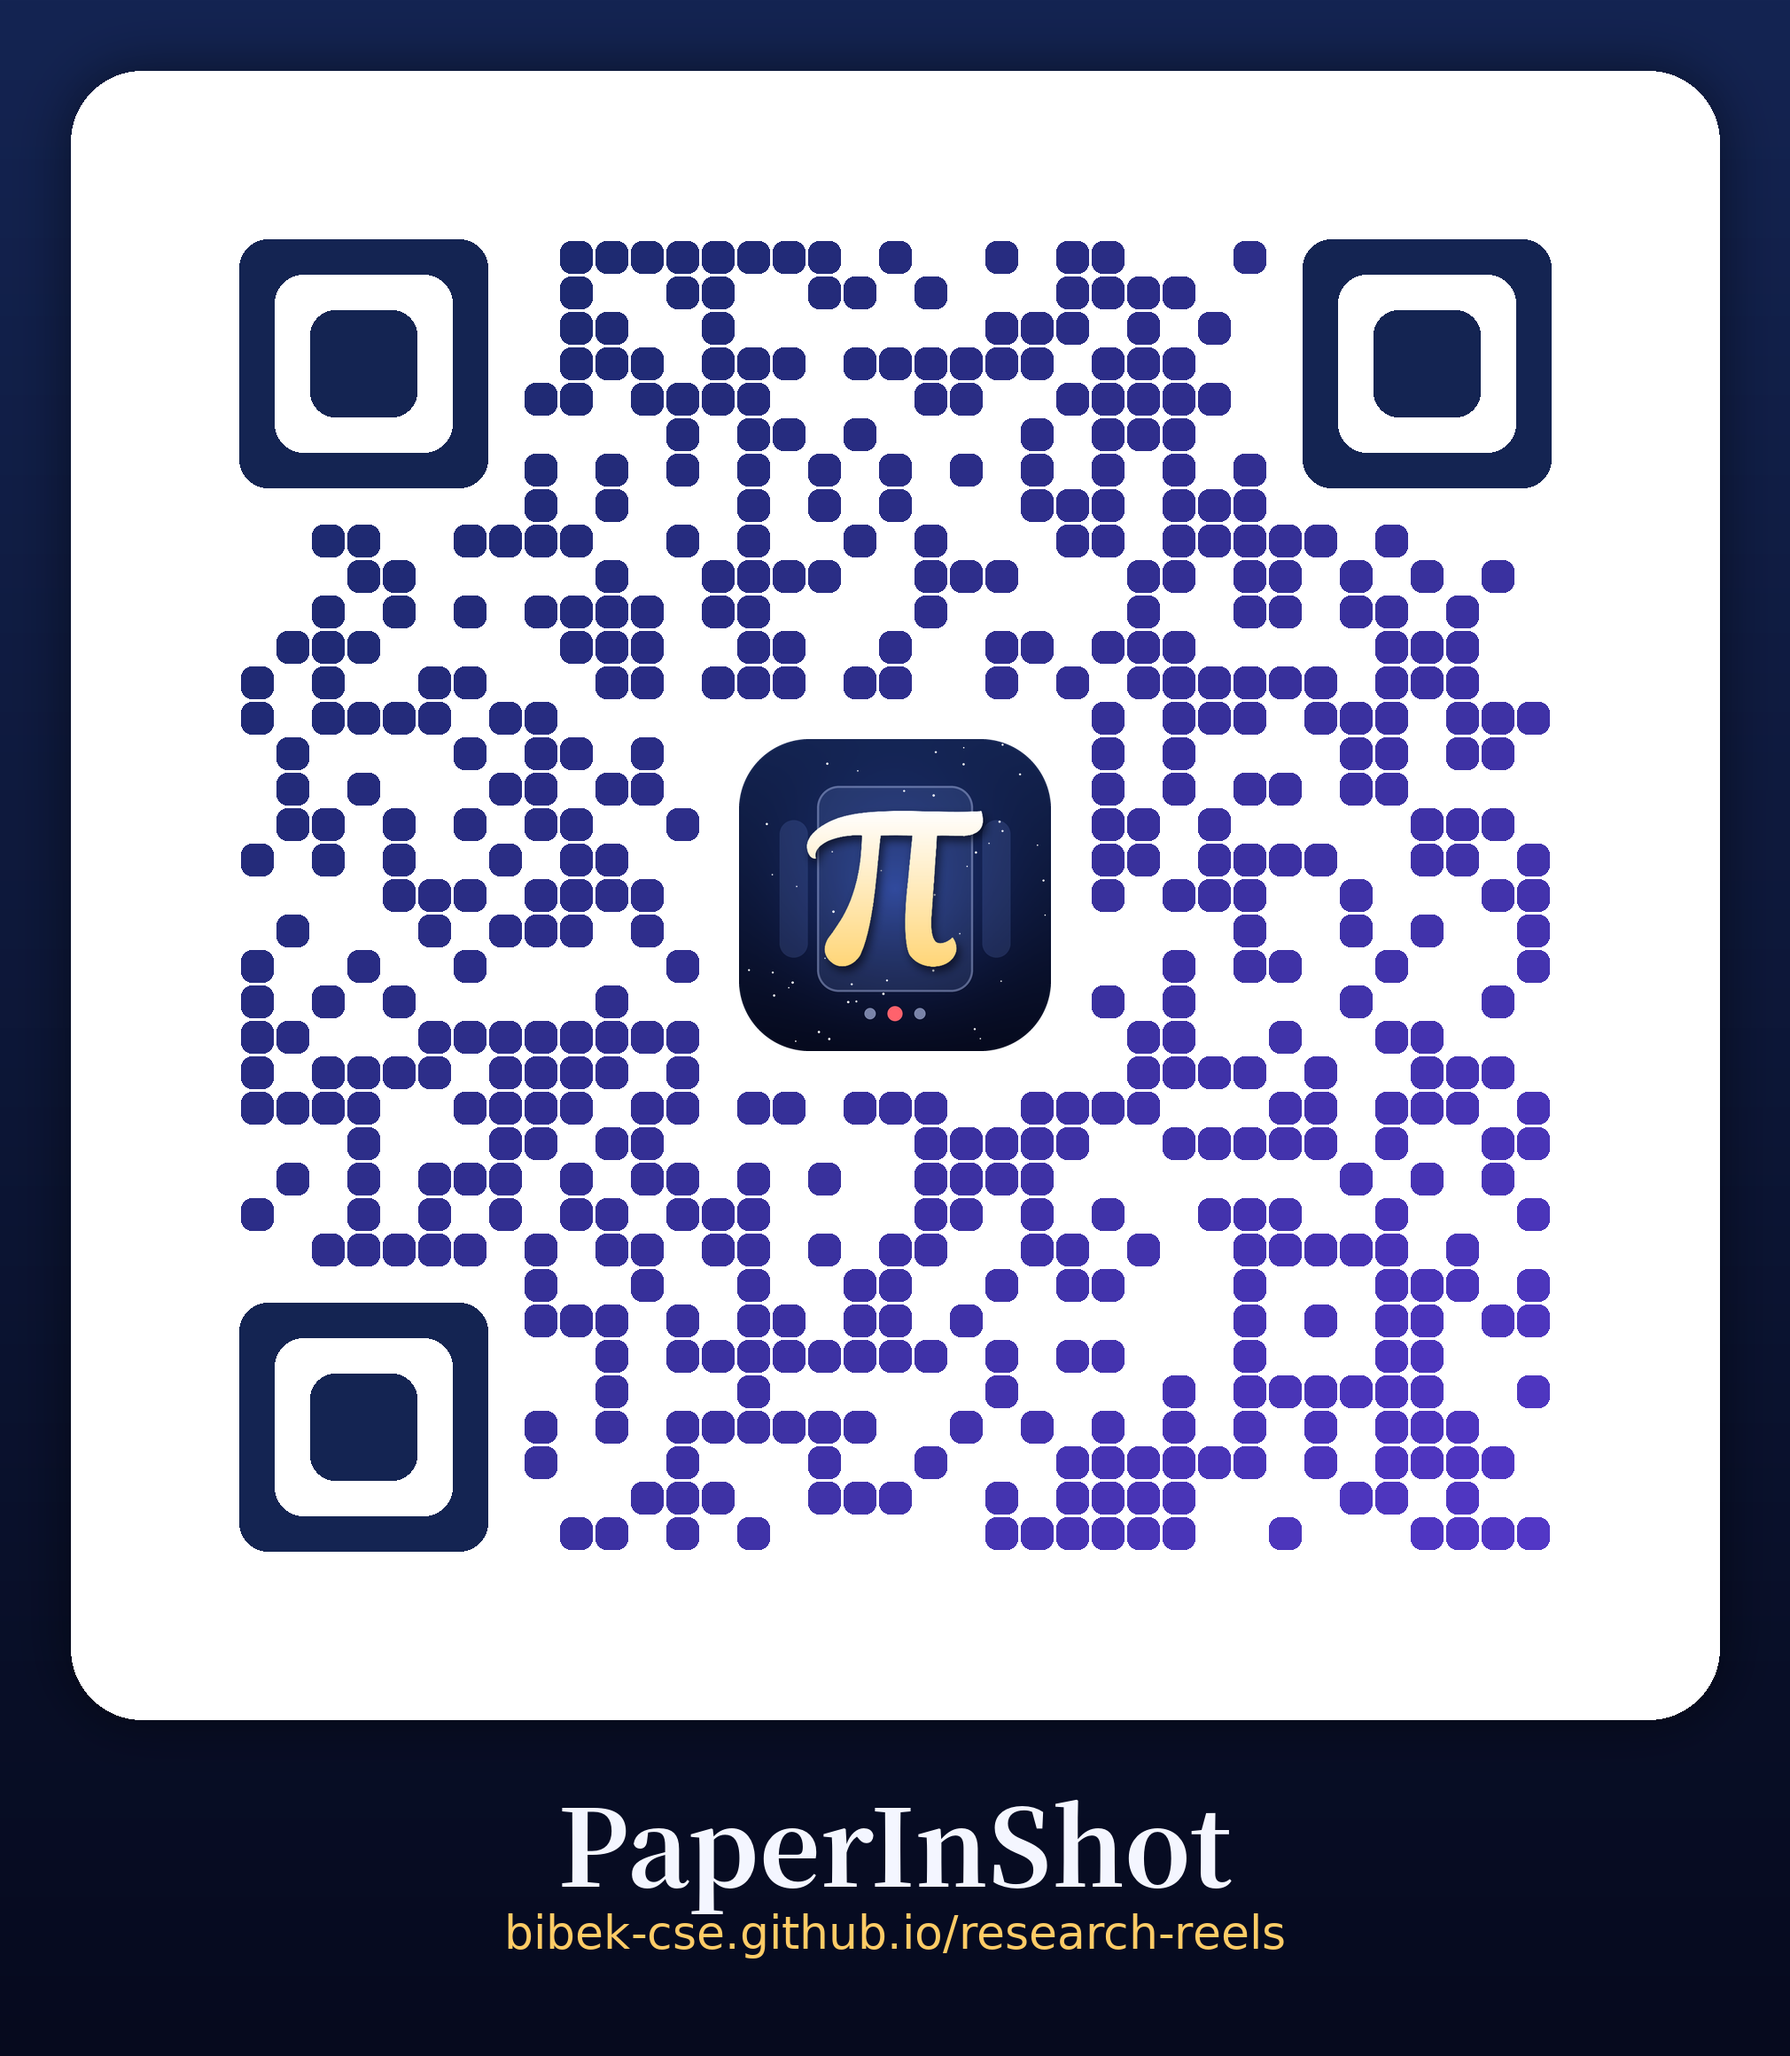
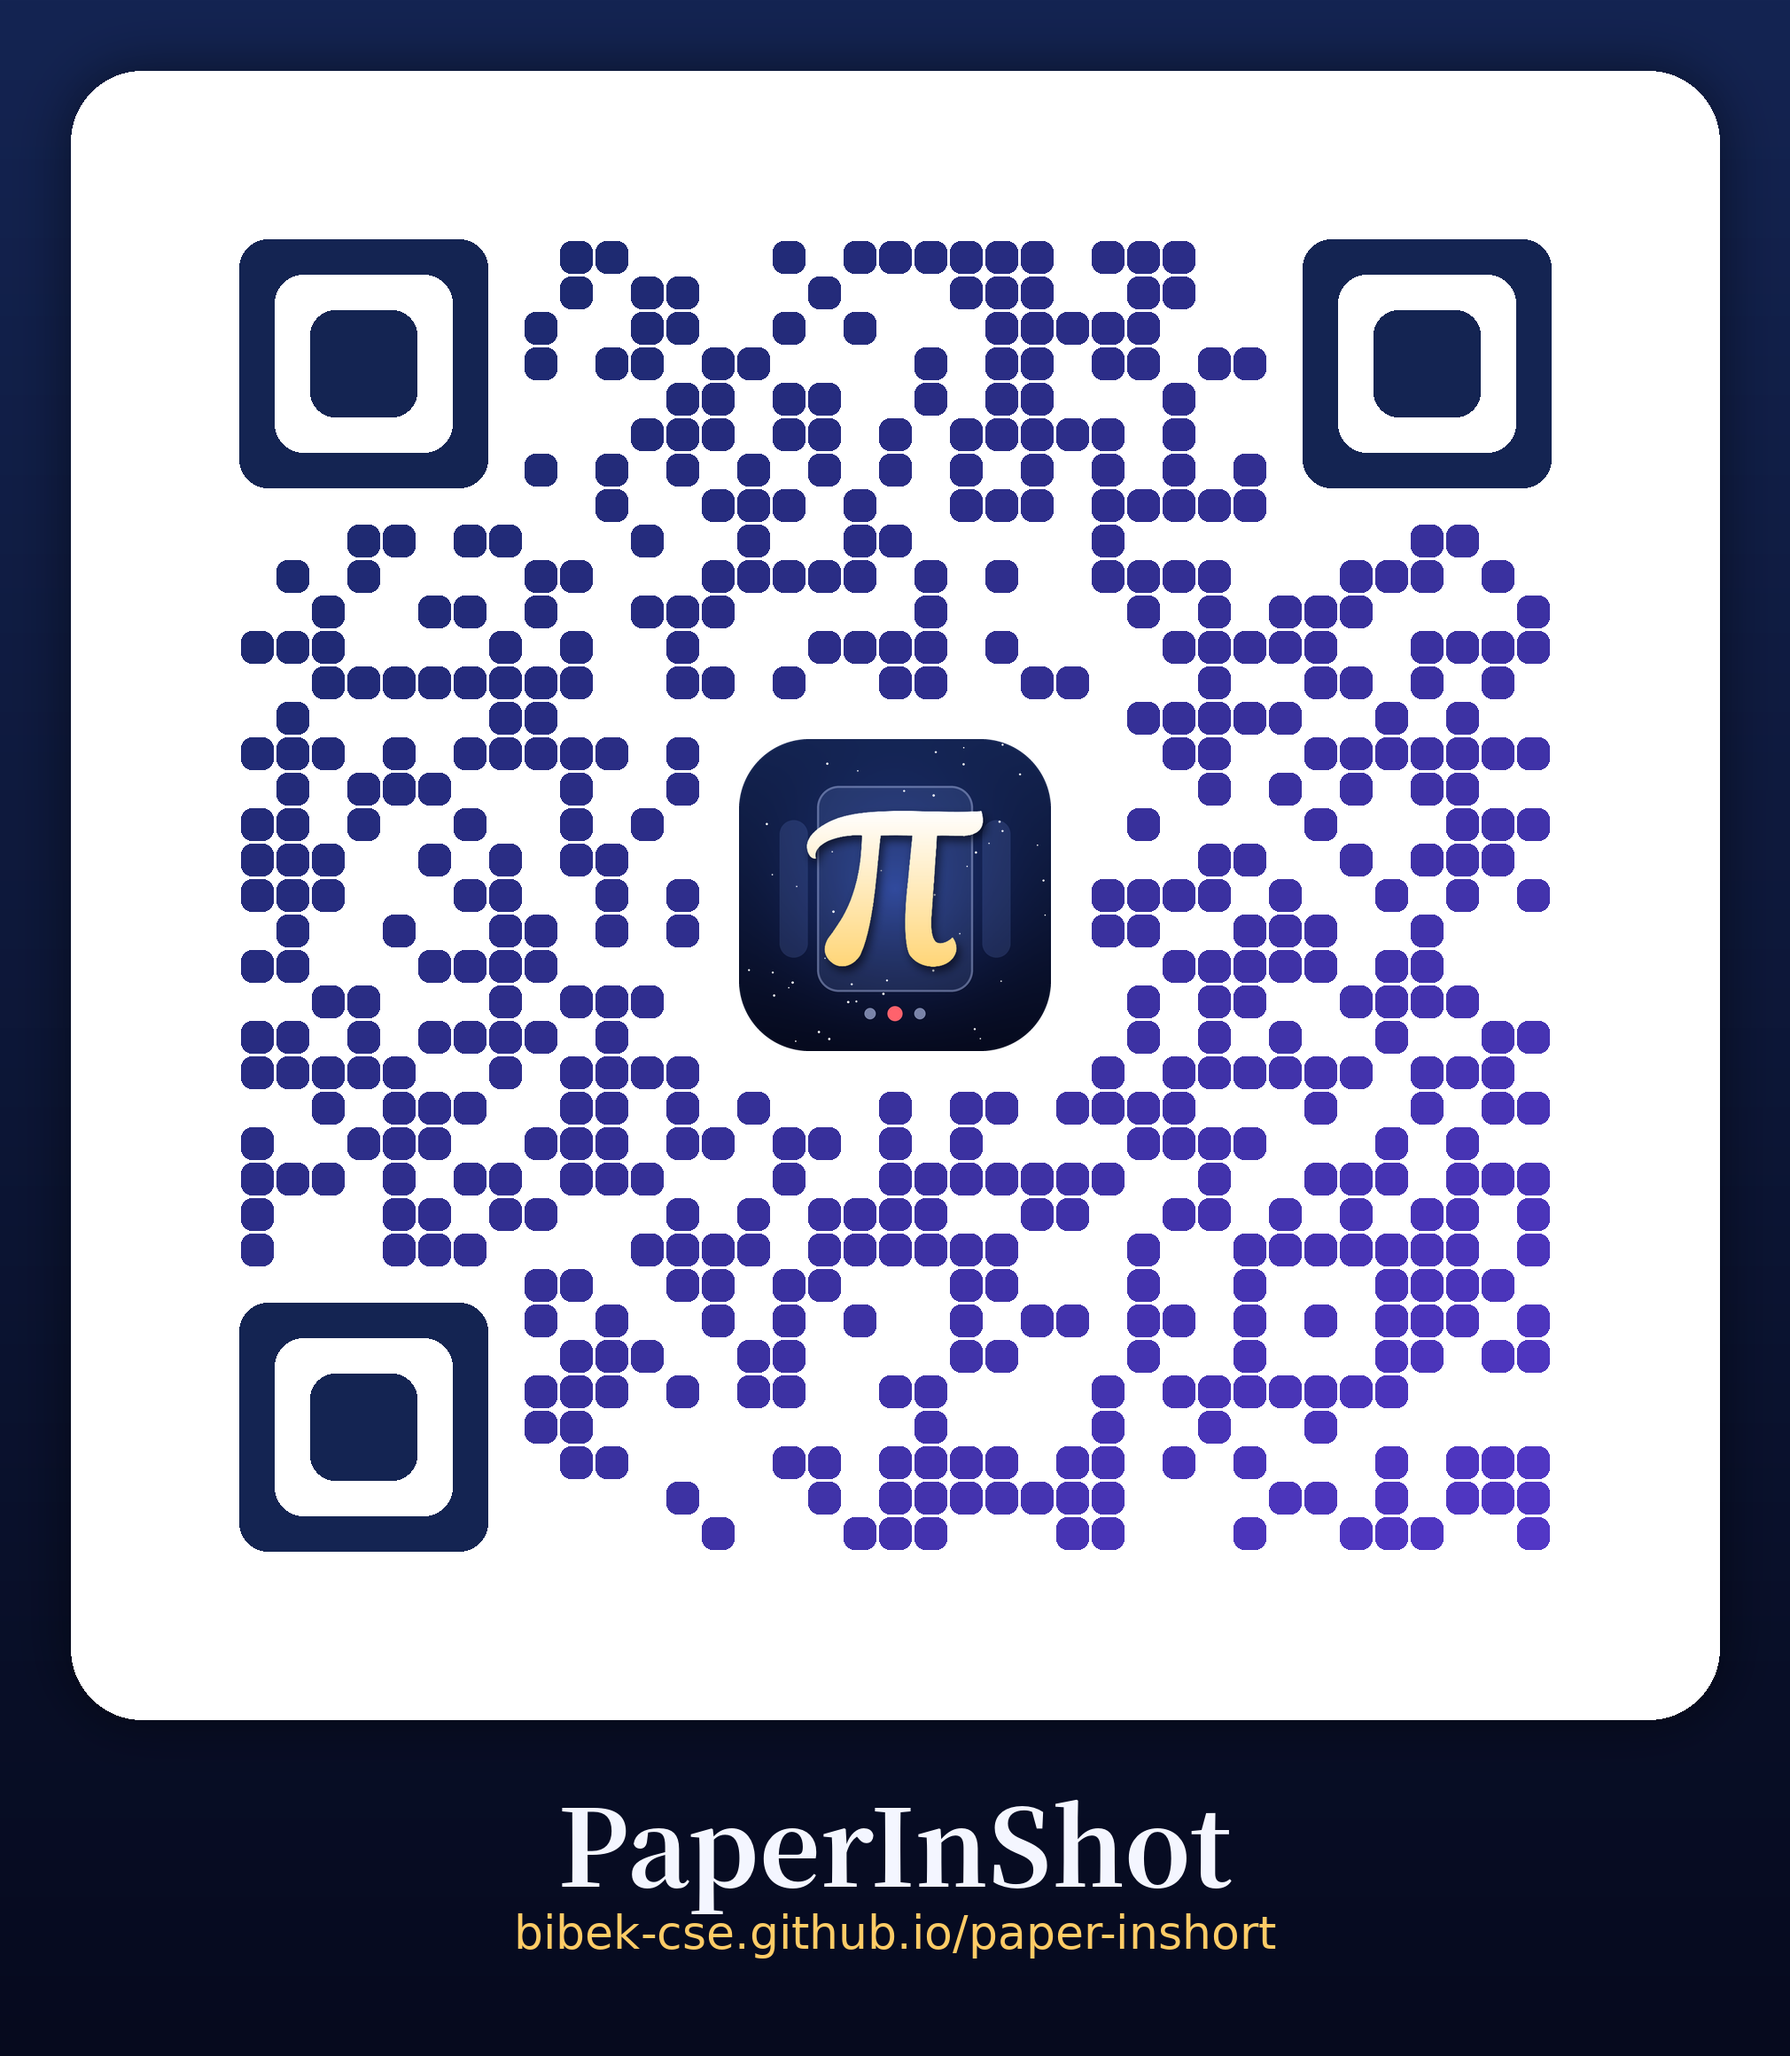
Add files via upload

Changed region(s): [[0.1248, 0.0931, 0.8733, 0.7759], [0.2807, 0.931, 0.7173, 0.9621]]

diff --git a/assets/app.js b/assets/app.js
@@ -1,5 +1,5 @@
 /*!
- * PaperInShot — https://bibek-cse.github.io/research-reels/
+ * PaperInShot — https://bibek-cse.github.io/paper-inshort/
  * Copyright (c) 2026 Bibek (GitHub: bibek-cse). All rights reserved.
  * Unauthorised copying, modification, redistribution or re-hosting of this file,
  * via any medium, is prohibited without prior written permission. See LICENSE.
@@ -11,7 +11,7 @@ const RR = window.RR, D = RR.DOMAINS, safe = RR.safeUrl;
 const KIND = { paper: 'Paper', idea: 'Research idea', concept: 'Concept, made easy' };
 const STOP = new Set('the and for with from that this into using based towards toward via over under are our their its than then them these those such can not but has have had was were been being what when where which while who will would could should may might also more most less very much many any each other some only same new novel approach method methods paper propose proposed show results model models data dataset learning deep neural network networks task tasks study analysis framework'.split(' '));
 const PKEY = 'rr_profile_v1', CHUNK = 20;
-const OWNER = { name: 'Bibek', gh: 'bibek-cse', home: 'https://bibek-cse.github.io/research-reels/', year: 2026 };
+const OWNER = { name: 'Bibek', gh: 'bibek-cse', home: 'https://bibek-cse.github.io/paper-inshort/', year: 2026 };
 const COPY = `<p class="copyright">© ${OWNER.year} PaperInShot · created by <a href="https://github.com/${OWNER.gh}" target="_blank" rel="noopener noreferrer">${OWNER.name} (@${OWNER.gh})</a> · All rights reserved.</p>`;
 const ALLOWED_HOSTS = ['bibek-cse.github.io', 'localhost', '127.0.0.1'];
 const FEED_DOMAINS = ['deepfake', 'watermark', 'voice', 'forensics', 'face', 'signature', 'biometrics', 'document', 'architecture'];

diff --git a/sw.js b/sw.js
@@ -1,11 +1,11 @@
 /*!
- * PaperInShot — https://bibek-cse.github.io/research-reels/
+ * PaperInShot — https://bibek-cse.github.io/paper-inshort/
  * Copyright (c) 2026 Bibek (GitHub: bibek-cse). All rights reserved.
  * Unauthorised copying, modification, redistribution or re-hosting of this file,
  * via any medium, is prohibited without prior written permission. See LICENSE.
  */
 // PaperInShot service worker: app shell = stale-while-revalidate; never touches third-party API traffic.
-const C = 'rr-v21';
+const C = 'rr-v22';
 const SHELL = ['./', 'index.html', 'manifest.json', 'assets/style.css', 'assets/app.js', 'assets/api.js', 'assets/story.js', 'assets/venue.js', 'assets/venues.js',
   'assets/vendor/js-yaml.min.js', 'assets/icons/icon-192.png', 'data/feed.json', 'data/concepts.json', 'data/conferences.json', 'data/sota.json'];
 self.addEventListener('install', e => { e.waitUntil(caches.open(C).then(c => c.addAll(SHELL))); self.skipWaiting(); });

diff --git a/assets/api.js b/assets/api.js
@@ -1,5 +1,5 @@
 /*!
- * PaperInShot — https://bibek-cse.github.io/research-reels/
+ * PaperInShot — https://bibek-cse.github.io/paper-inshort/
  * Copyright (c) 2026 Bibek (GitHub: bibek-cse). All rights reserved.
  * Unauthorised copying, modification, redistribution or re-hosting of this file,
  * via any medium, is prohibited without prior written permission. See LICENSE.

diff --git a/assets/story.js b/assets/story.js
@@ -1,5 +1,5 @@
 /*!
- * PaperInShot — https://bibek-cse.github.io/research-reels/
+ * PaperInShot — https://bibek-cse.github.io/paper-inshort/
  * Copyright (c) 2026 Bibek (GitHub: bibek-cse). All rights reserved.
  * Unauthorised copying, modification, redistribution or re-hosting of this file,
  * via any medium, is prohibited without prior written permission. See LICENSE.

diff --git a/assets/style.css b/assets/style.css
@@ -1,5 +1,5 @@
 /*!
- * PaperInShot — https://bibek-cse.github.io/research-reels/
+ * PaperInShot — https://bibek-cse.github.io/paper-inshort/
  * Copyright (c) 2026 Bibek (GitHub: bibek-cse). All rights reserved.
  * Unauthorised copying, modification, redistribution or re-hosting of this file,
  * via any medium, is prohibited without prior written permission. See LICENSE.

diff --git a/assets/venue.js b/assets/venue.js
@@ -1,5 +1,5 @@
 /*!
- * PaperInShot — https://bibek-cse.github.io/research-reels/
+ * PaperInShot — https://bibek-cse.github.io/paper-inshort/
  * Copyright (c) 2026 Bibek (GitHub: bibek-cse). All rights reserved.
  * Unauthorised copying, modification, redistribution or re-hosting of this file,
  * via any medium, is prohibited without prior written permission. See LICENSE.

diff --git a/assets/venues.js b/assets/venues.js
@@ -1,5 +1,5 @@
 /*!
- * PaperInShot — https://bibek-cse.github.io/research-reels/
+ * PaperInShot — https://bibek-cse.github.io/paper-inshort/
  * Copyright (c) 2026 Bibek (GitHub: bibek-cse). All rights reserved.
  * Unauthorised copying, modification, redistribution or re-hosting of this file,
  * via any medium, is prohibited without prior written permission. See LICENSE.

diff --git a/README.md b/README.md
@@ -7,7 +7,7 @@
 
 **Stop scrolling through 14-page PDFs. Start swiping through the ideas that matter.**
 
-[![Open the app](https://img.shields.io/badge/▶%20Open%20PaperInShot-bibek--cse.github.io%2Fresearch--reels-0b1230?style=for-the-badge)](https://bibek-cse.github.io/research-reels/)
+[![Open the app](https://img.shields.io/badge/▶%20Open%20PaperInShot-bibek--cse.github.io%2Fpaper--inshort-0b1230?style=for-the-badge)](https://bibek-cse.github.io/paper-inshort/)
 
 [![Free](https://img.shields.io/badge/price-free-4cd6a0?style=flat-square)](#-free-private--secure)
 [![Installable](https://img.shields.io/badge/app-installable%20PWA-7c5cff?style=flat-square)](#-install-it-like-an-app)
@@ -16,7 +16,7 @@
 
 <img width="320" alt="Scan to open PaperInShot" src="assets/qr.png" />
 
-**Scan to open** · or visit **https://bibek-cse.github.io/research-reels/**
+**Scan to open** · or visit **https://bibek-cse.github.io/paper-inshort/**
 
 </div>
 
@@ -103,7 +103,7 @@ PaperInShot installs on your phone or laptop with its own icon and works offline
 
 ## 💬 Feedback
 
-Found a bug, want a new venue or domain, or have an idea? Open an [issue](https://github.com/bibek-cse/research-reels/issues). Feedback is welcome!
+Found a bug, want a new venue or domain, or have an idea? Open an [issue](https://github.com/bibek-cse/paper-inshort/issues). Feedback is welcome!
 
 If PaperInShot saves you time, **⭐ star this repo** and share the QR with your lab.
 
